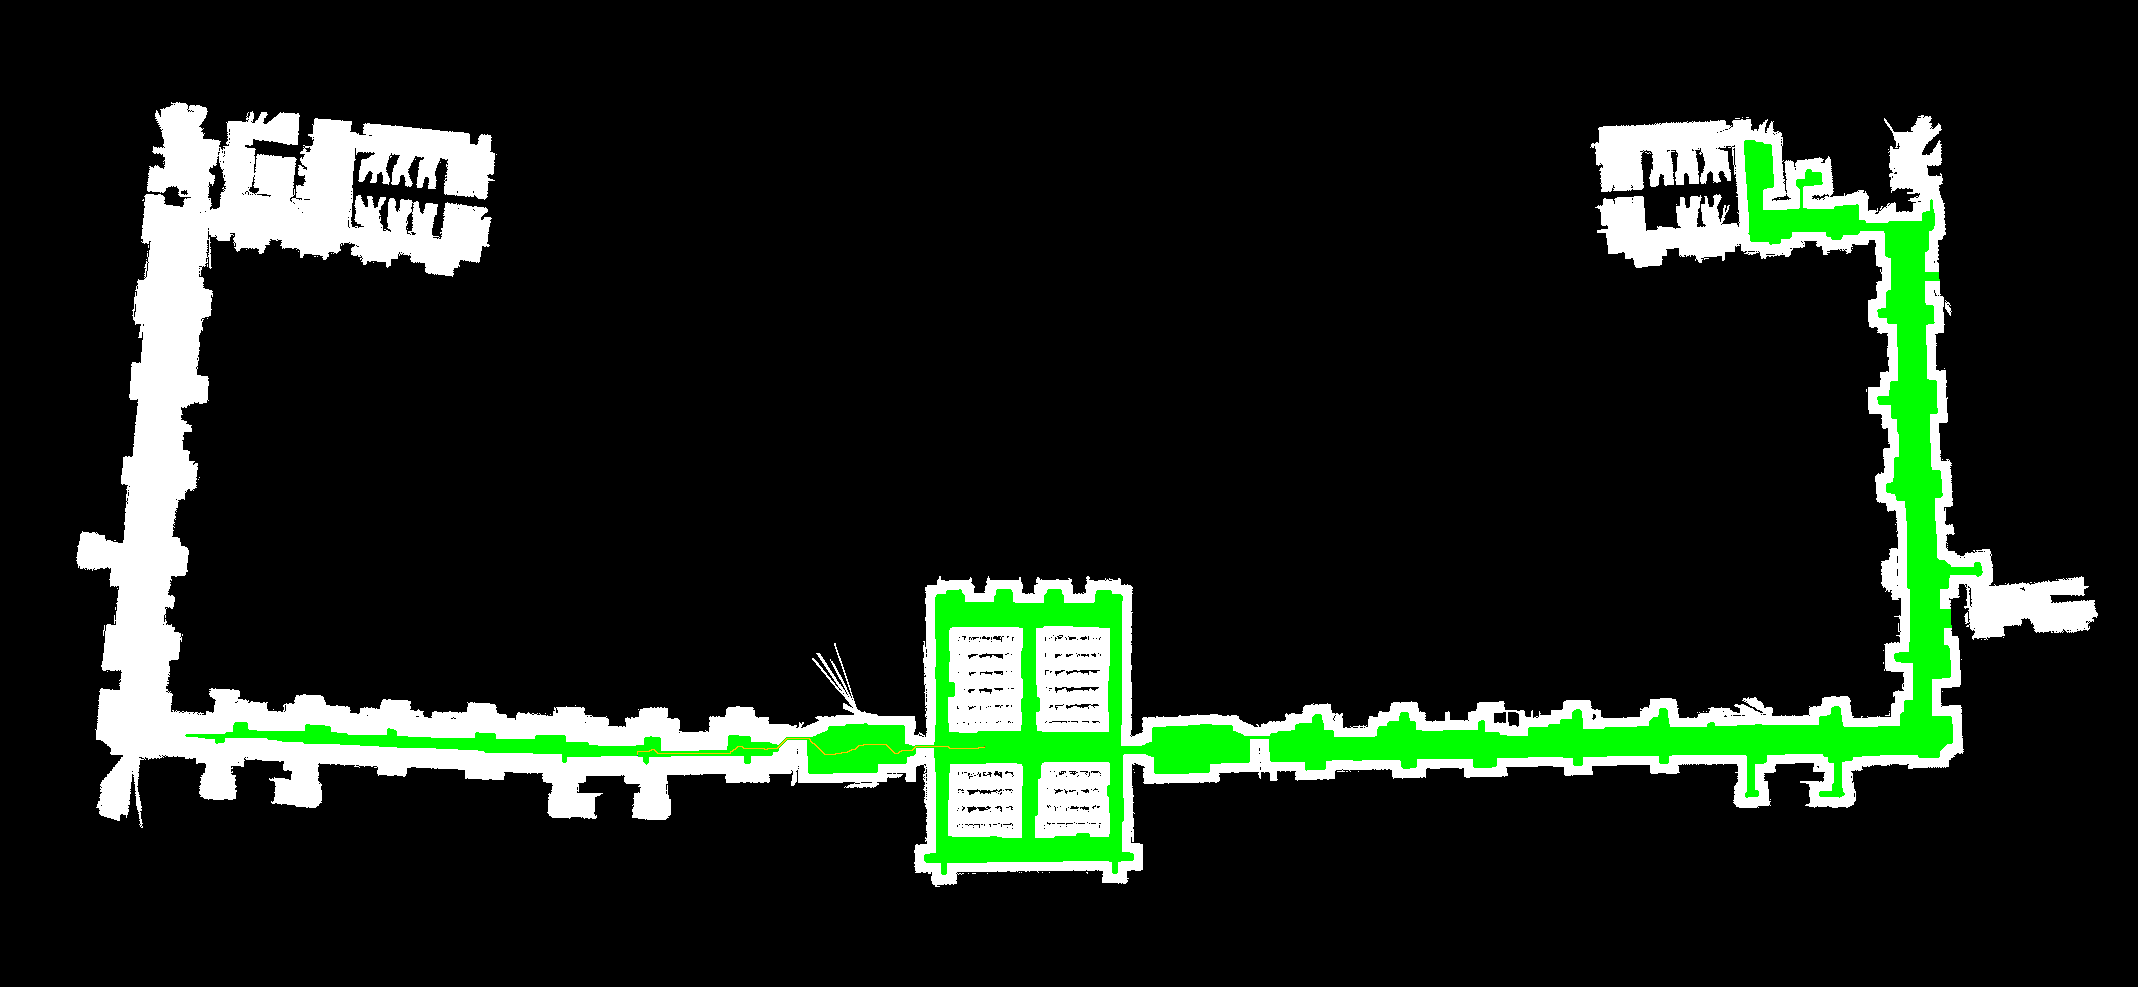
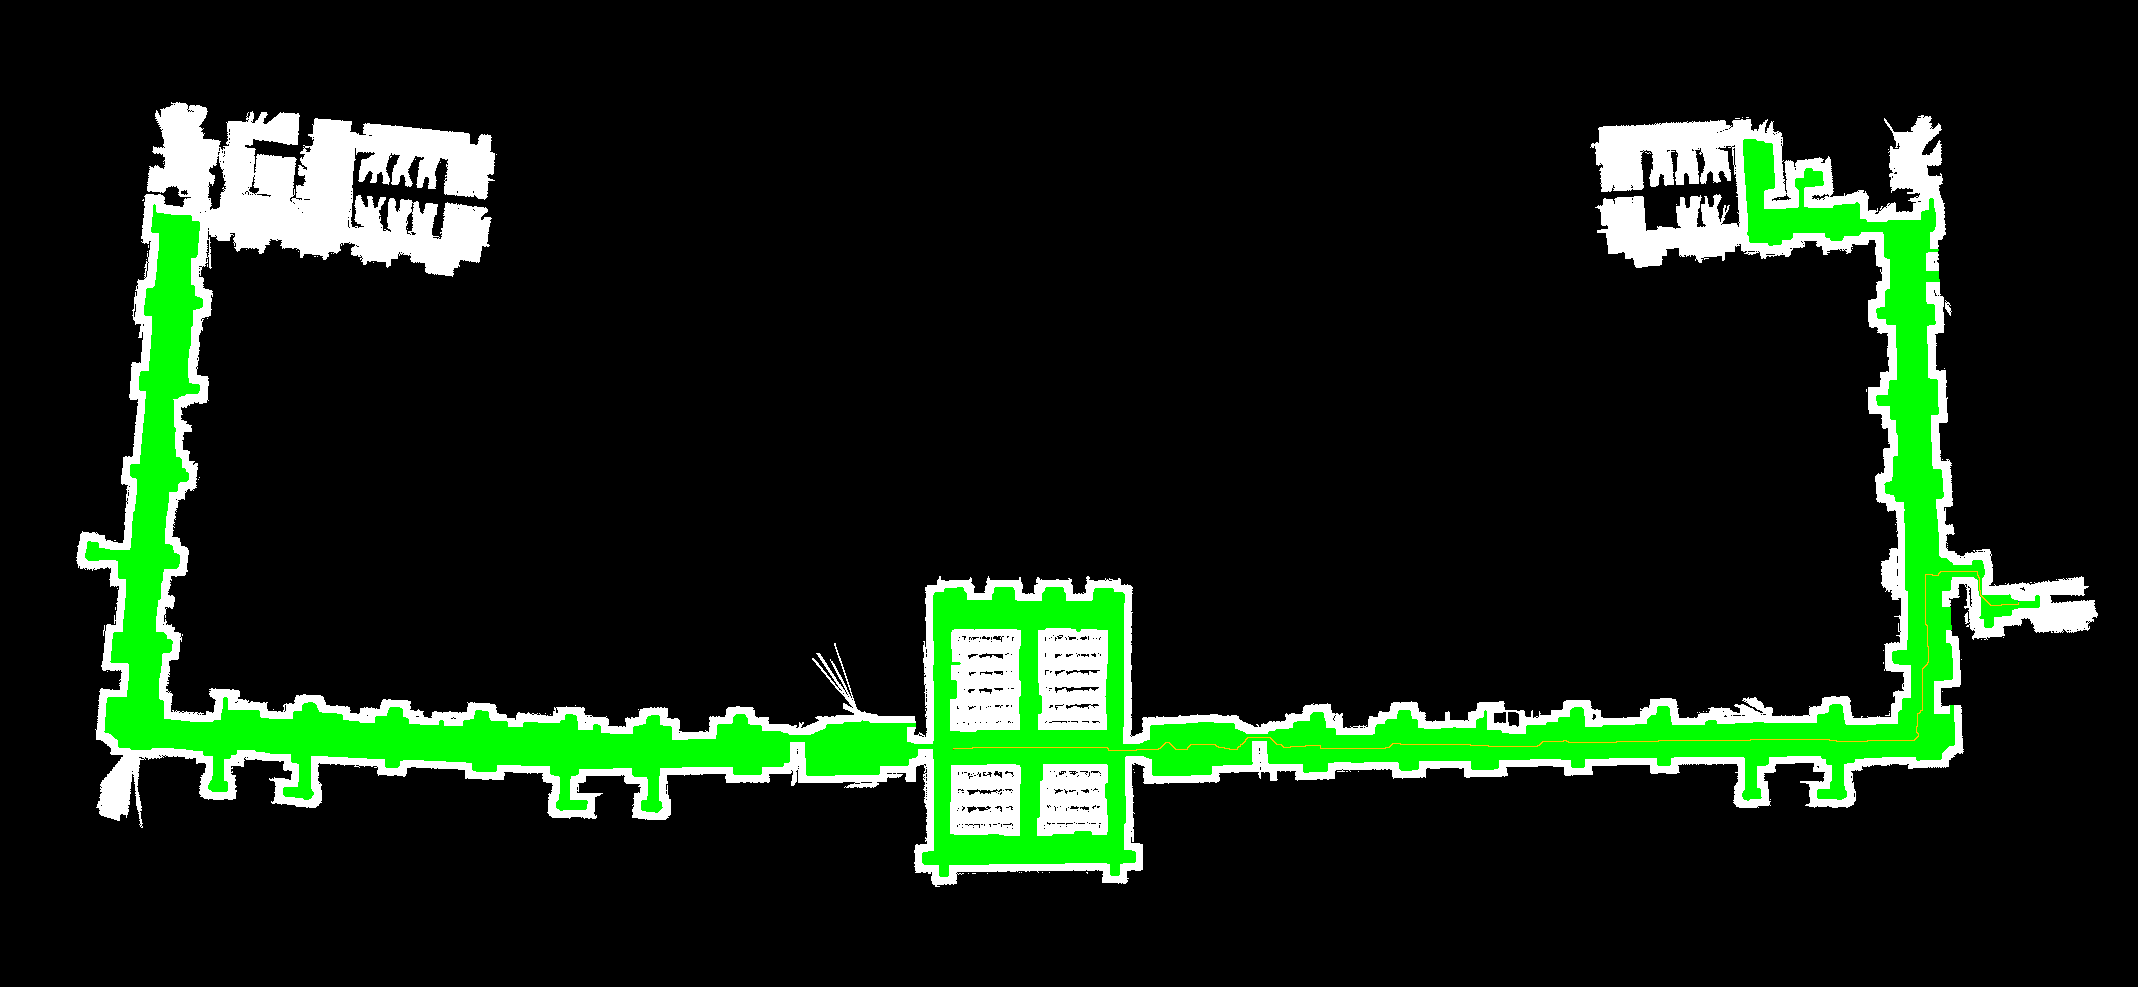
readme update

diff --git a/README.md b/README.md
@@ -1,80 +1,96 @@
 # SimplePlanner
-A ROS2-integrated program that computes the path to a user selected goal from the current location of the robot
+A ROS2-integrated Dijkstra-based planner that computes the path to a user selected goal from the current location of a differential wheeled robot. The search algorithm aims to keep the robot as far as possible from walls.
+<div align="center"> <img src="imgs/rviz_visualization.png" alt="rviz_visualization"> </div> </br>
+
+In the **_src_** folder the three main packages are:
+- [**_simple_planner_**](src/simple_planner/) : contains the core of the project. Here you can find the definition of the _simple_planner_ node and the search algorithms.
+- [**_configuration_**](src/configuration/) : launch file, rviz settings and configuration files about the navigation stack nodes are stored here.
+- [**_worlds_**](src/worlds/) : contains the data about the map and the robot used in the simulation. The original source is [this](https://gitlab.com/grisetti/robotprogramming_2023_24). 
+
+# How it works
+
+1. The [**_simple_planner_**](src/simple_planner/src/simple_planner.cpp) node listens to the **_map_** topic published by the **_map_server_** as a _nav_msgs/msg/OccupancyGrid_ message. 
+2. A costmap (actually a _distance map_) is computed starting from the just obtained Occupancy Grid. It contains the distance of each cell from the nearest obstacle. The search [algorithm](src/simple_planner/src/distance_map.cpp) in this case is a simple BFS with all the obstacle cells in the frontier.
+3. Once a **_goal_pose_** (in the format of a _geometry_msgs/msg/PoseStamped_ message) is received:
+    
+    - a _lookupTransform_ is executed to get the robot current pose;
+    - the Dijkstra-based [planning algorithm](src/simple_planner/src/search.cpp) is executed using the distance map to compute the cost of a node;
+    - the path is stored as a _nav_msg/msg/Path_ message.
+4. The updated **_path_** topic is published.
+
 
 # Setup
 Ubuntu 22.04 + ROS2 humble
 ## Installation of the [stage_ros2](https://github.com/tuw-robotics/stage_ros2) package:
-```bash
-sudo apt-get install git cmake g++ libjpeg8-dev libpng-dev libglu1-mesa-dev libltdl-dev libfltk1.1-dev
-cd YOUR_ROS2_WORKSPACE
-mkdir src
-cd src
-git clone --branch ros2 git@github.com:tuw-robotics/Stage.git
-git clone --branch humble git@github.com:tuw-robotics/stage_ros2.git
-cd YOUR_ROS2_WORKSPACE
-colcon build --symlink-install --cmake-args -DOpenGL_GL_PREFERENCE=LEGACY
-colcon build --symlink-install --packages-select stage_ros2        
-```
-# Build
-```bash
 
+Follow the [instructions](https://github.com/tuw-robotics/stage_ros2/blob/humble/res/install.md) on their repository.
+
+# How to Compile
+From the project root:
+```bash
+colcon build
 ```
 
-
-# Run
-From the root of the project folder:
+# How to Run
+From the project root:
 ```bash
 source install/local_setup.bash
 ros2 launch src/configuration/launch/launch_all.xml
 ```
-## Commands to run each node individually:
 
-### rviz2
+Otherwise, after the `source install/local_setup.bash` command, run each node individually.
+<details>
+<summary>Click here to expand and see all the commands.</summary>
+  
+## Visualization
 ```bash
 ros2 run rviz2 rviz2 -d src/configuration/src/visualization.rviz
 ```
-
-### stage_ros2
+  
+## Simulator
 ```bash
 ros2 run stage_ros2 stage_ros2 --ros-args -p world_file:=src/worlds/src/cappero/cappero_laser_odom_diag.world
 ```
-### keyboard controller
+
+## Keyboard controller
 ```bash
 ros2 run teleop_twist_keyboard teleop_twist_keyboard
 ```
-It published ```geometry_msgs/msg/Twist``` messages in the ```/cmd_vel``` topic.
+It publishes _geometry_msgs/msg/Twist_ messages in the **_cmd_vel_** topic.
 
-### map_server
+## Map Server
 ```bash
 ros2 run nav2_map_server map_server --ros-args -p yaml_filename:=src/worlds/src/cappero/cappero_laser_odom_diag.yaml
+ros2 run nav2_util lifecycle_bringup map_server
 ```
 
-to publish a static tf map->odom: 
-```bash
-ros2 run tf2_ros static_transform_publisher --frame-id map --child-frame-id odo
-```
-
-### amcl
+## Localizer
 ```bash
 ros2 run nav2_amcl amcl --ros-args --params-file src/configuration/src/amcl.yaml
+ros2 run nav2_util lifecycle_bringup amcl
+```
+## Planner
+```bash
+ros2 run simple_planner simple_planner
 ```
 
-### path planner
-```bash
-ros2 run nav2_planner planner_server --ros-args --params-file ./planner_server.yaml
-```
+</details>
+</br>
 
-### path execution
-```bash
-ros2 run nav2_controller controller_server --ros-args --params-file ./controller_server.yaml
-```
 
-### bt navigator
-```bash
-ros2 run nav2_bt_navigator bt_navigator --ros-args --params-file bt_navigator.yaml
-```
+# How to Test
+On rviz:
 
-### lifecycle manager
-```bash
-ros2 run nav2_util lifecycle_bringup --ros-args -p node_names:=[map_server, amcl] -p autostart:=true
-```
+1) Set the 2D Pose Estimate
+2) Set the 2D Goal Pose
+
+If the selected Goal Pose can be reached from the current robot position, a path will be visualized (like in the [first image](#simpleplanner)).
+
+Visualizations of the distance_map and the visited cells of the map are also saved. 
+
+<div align="center"> <img src="imgs/distance_map.png" alt="distance_map"> Distance Map </div>
+</br>
+<div align="center"> <img src="imgs/visited_area.png" alt="visited_area"> Visited cells (in green) </div>
+
+
+
